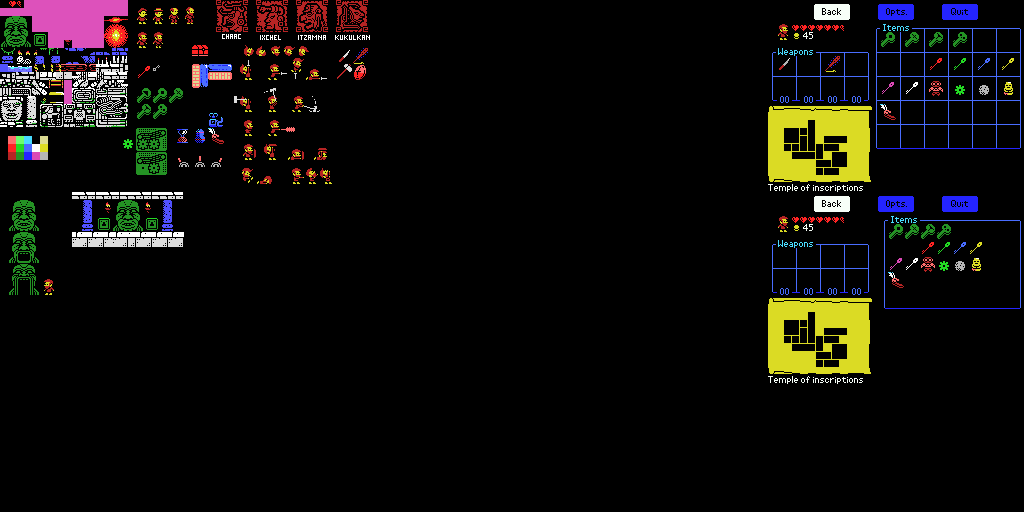
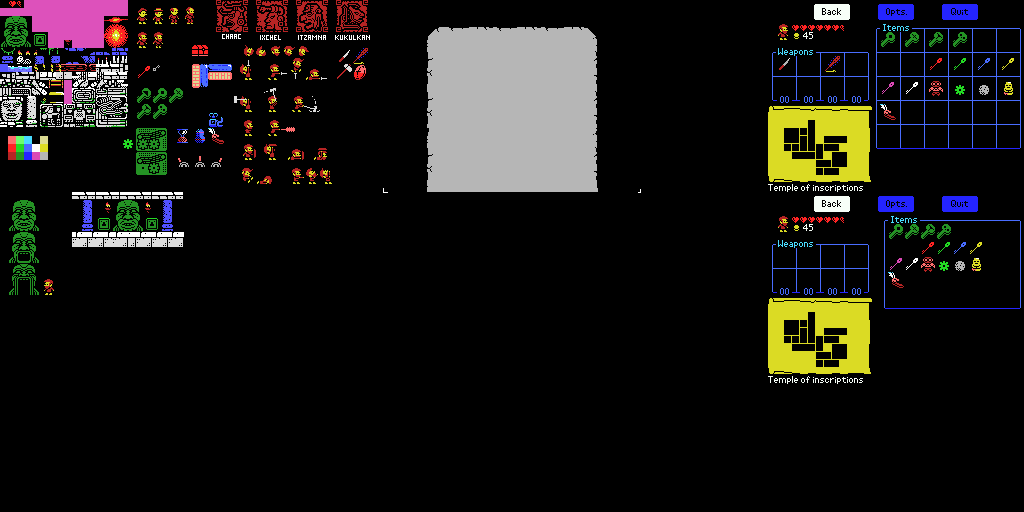
combination clue tablets added and rendered

Changed region(s): [[0.4062, 0.0312, 0.5938, 0.375]]

diff --git a/java/src/test/HardcodedWorldForAssembler.java b/java/src/test/HardcodedWorldForAssembler.java
@@ -26,6 +26,7 @@ public class HardcodedWorldForAssembler {
     public static final int MAX_N_TAGS = 32;
     public static final int MAX_CONNECTIONS = 12;
     public static final int MAX_CHESTS = 10;
+    public static final int MAX_TABLETS = 16;
     
     public static void main(String args[]) throws Exception
     {
@@ -87,6 +88,36 @@ public class HardcodedWorldForAssembler {
             System.out.println("  ds " + (MAX_CHESTS - n_chests) * 2 + ", #ff");
         }
         System.out.println("  db #ff  ; sentinel");
+        
+        // Tablet content:
+        int n_tablets = 0;
+        System.out.println("hardcoded_world_data__tablet_content:");
+        System.out.println("  ; each entry is 3 bytes: tablet_id, content_ptr");
+        for(String tablet:w.tabletContent.keySet()) {
+            System.out.println("  db " + AssemblerTags.tagToAssembler(tablet));
+            System.out.println("  dw " + w.tabletContent.get(tablet));
+            n_tablets++;
+        }
+        if (n_tablets > MAX_TABLETS) {
+            throw new Exception("More tablets than supported: " + n_tablets);
+        }
+        if (n_tablets < MAX_TABLETS) {
+            System.out.println("  ds " + (MAX_TABLETS - n_tablets) * 3 + ", #ff");
+        }
+        System.out.println("  db #ff  ; sentinel");
+        
+        System.out.println("hardcoded_world_data__combination_solutions:");
+        for(int i = 0;i<4;i++) {
+            System.out.println("  db " + w.combinationSolutions[i][0] + ", " +
+                                         w.combinationSolutions[i][1] + ", " +
+                                         w.combinationSolutions[i][2] + ", " +
+                                         w.combinationSolutions[i][3] + ", " +
+                                         w.combinationSolutions[i][4] + ", " +
+                                         w.combinationSolutions[i][5] + ", " +
+                                         w.combinationSolutions[i][6] + ", " +
+                                         w.combinationSolutions[i][7]);
+        }
+        
     }
     
     
@@ -138,7 +169,7 @@ public class HardcodedWorldForAssembler {
         }
         
         System.out.println("hardcoded_area_data_"+areaIndex+"__tags:");
-        List<Pair<Integer, String>> tagList = pcg2.getSortedTagList(a);
+        List<Pair<Integer, String>> tagList = a.getSortedTagList();
         int n_tags = tagList.size();
         for(Pair<Integer, String> tag_position:tagList) {
             int offset = tag_position.left;

diff --git a/java/src/pcg/PCGWorld.java b/java/src/pcg/PCGWorld.java
@@ -238,6 +238,42 @@ public class PCGWorld {
                 a.removeTag("none");
             }
             
+            // generate tablet contents:
+//            int n_combination_tablets = 0;
+//            int n_trial_tablets = 0;
+//            int n_riddle_tablets = 0;
+//            int n_trivia_tablets = 0;
+            for(Area a:w.areas) {
+                List<Pair<Integer, String>> tagList = a.getSortedTagList();
+                for(Pair<Integer, String> tag_position:tagList) {
+                    String tag = tag_position.right;
+//                    System.out.println(tag);
+                    if (tag.toLowerCase().contains("-clue") &&
+                        tag.toLowerCase().contains("combination")) {
+                        // combination clue:
+                        int type = r.nextInt(4);
+                        w.tabletContent.put(tag, "combination_tablet_type_"+type+"_fn");
+                    } else if (tag.toLowerCase().contains("-clue") &&
+                        tag.toLowerCase().contains("trial")) {
+                        // combination clue:
+                        // ...
+                    } else if (tag.toLowerCase().contains("riddle-clue")) {
+                        // maya riddle clue:
+                        // ...
+                    } else if (tag.toLowerCase().contains("story-trivia")) {
+                        // story trivia:
+                        // ...
+                    }
+                }
+            }
+            
+            for(int j = 0;j<4;j++) {
+                for(int k = 0;k<8;k++) {
+                    w.combinationSolutions[j][k] = r.nextInt(8)%3;
+                }
+            }
+            
+            
             return w;
         }        
         return null;

diff --git a/java/src/pcg/PCGArea.java b/java/src/pcg/PCGArea.java
@@ -716,7 +716,7 @@ public class PCGArea {
         }
 
         // Get all tags:
-        List<Pair<Integer, String>> tagList = getSortedTagList(a);
+        List<Pair<Integer, String>> tagList = a.getSortedTagList();
      
 //        System.out.println("---- placing tags for area " + a.ID + " ----");
 //        System.out.println("seed before: " + Z80Assembler.toHex16bit(r.rng_seed1, true) + ", " + Z80Assembler.toHex16bit(r.rng_seed2, true));
@@ -1310,36 +1310,6 @@ public class PCGArea {
         return ra;
     }
     
-
-    public List<Pair<Integer, String>> getSortedTagList(Area a)
-    {
-        List<Pair<Integer, String>> tagList = new ArrayList<>();        
-        for(int i = 0;i<a.height;i++) {
-            for(int j = 0;j<a.width;j++) {
-                if (a.tags[j][i] != null) {
-                    for(String tag:a.tags[j][i]) {
-                        tagList.add(new Pair<>(j+i*a.width, tag));
-                    }
-                }
-            }
-        }
-        Collections.sort(tagList, new Comparator<Pair<Integer, String>>(){
-            @Override
-            public int compare(Pair<Integer, String> o1, Pair<Integer, String> o2) {
-                try {
-                    int tag1 = AssemblerTags.assemblerID(o1.right);
-                    int tag2 = AssemblerTags.assemblerID(o2.right);
-                    return Integer.compare(tag1, tag2);
-                } catch(Exception e) {
-                    e.printStackTrace();
-                    System.exit(0);
-                    return 0;
-                }
-            }
-        });
-        return tagList;
-    }
-
     
     public RoomChunk[][] getBGChunksLikeInMSX(RenderedArea ra)
     {

diff --git a/java/src/pcg/Area.java b/java/src/pcg/Area.java
@@ -6,6 +6,8 @@ package pcg;
 
 import java.awt.Color;
 import java.util.ArrayList;
+import java.util.Collections;
+import java.util.Comparator;
 import java.util.List;
 import util.Pair;
 
@@ -90,4 +92,33 @@ public class Area {
         }
     }
     
+    
+    public List<Pair<Integer, String>> getSortedTagList()
+    {
+        List<Pair<Integer, String>> tagList = new ArrayList<>();        
+        for(int i = 0;i<height;i++) {
+            for(int j = 0;j<width;j++) {
+                if (tags[j][i] != null) {
+                    for(String tag:tags[j][i]) {
+                        tagList.add(new Pair<>(j+i*width, tag));
+                    }
+                }
+            }
+        }
+        Collections.sort(tagList, new Comparator<Pair<Integer, String>>(){
+            @Override
+            public int compare(Pair<Integer, String> o1, Pair<Integer, String> o2) {
+                try {
+                    int tag1 = AssemblerTags.assemblerID(o1.right);
+                    int tag2 = AssemblerTags.assemblerID(o2.right);
+                    return Integer.compare(tag1, tag2);
+                } catch(Exception e) {
+                    e.printStackTrace();
+                    System.exit(0);
+                    return 0;
+                }
+            }
+        });
+        return tagList;
+    }    
 }

diff --git a/java/src/xspelunker2/Text.java b/java/src/xspelunker2/Text.java
@@ -235,6 +235,12 @@ public class Text {
         addLineSafe(lines_with_constant, "That does not seem to be the correct key for this lock!", "WRONG_KEY", 112);
         addLineSafe(lines_with_constant, "That does not seem to be the correct item to use here!", "WRONG_ITEM", 112);
         
+        // Combination clue verse:
+        addLineSafe(lines_with_constant, "Dance of traversal:", "COMBINATION_CLUE1", 12);
+        addLineSafe(lines_with_constant, "Face left", "COMBINATION_CLUE2", 8);
+        addLineSafe(lines_with_constant, "Face forward", "COMBINATION_CLUE3", 8);
+        addLineSafe(lines_with_constant, "Face right", "COMBINATION_CLUE4", 8);
+        
         List<Integer> numbers = font.convertStringToAssembler("0123456789 ");
         System.out.println("Numbers: " + numbers);
         List<Integer> letters = font.convertStringToAssembler("ABCDEFGHIJKLMNOPQRSTUVWXYZ ");

diff --git a/java/src/pcg/World.java b/java/src/pcg/World.java
@@ -23,8 +23,10 @@ public class World {
     public List<InterAreaConnection> interAreaconnections = new ArrayList<>();
     public HashMap<String, Integer> lockDirections = new HashMap<>();
     public HashMap<String, String> chestContent = new HashMap<>();
+    public HashMap<String, String> tabletContent = new HashMap<>();
     public List<String> withinChestTag = new ArrayList<>();
     public List<AreaDivision> spanningTree;
+    public int[][] combinationSolutions = new int[4][8];
     
     // Used for verifying if game is solveable:
     public HashMap<String, List<String>> lockKeys = new HashMap<>();  

diff --git a/java/src/xspelunker2/GenerateTiles.java b/java/src/xspelunker2/GenerateTiles.java
@@ -142,6 +142,8 @@ public class GenerateTiles {
         // button (58, 59)
         extratTilesOneObject(sourceImage, 192, 16, 16, 16, data);  // up
         extratTilesOneObject(sourceImage, 192, 32, 16, 16, data);  // pressed
+        // tablet (60)
+        extratTilesOneObject(sourceImage, 96, 48, 16, 16, data);
 
         Z80Assembler.dataToBinary(data, outputPath + ".bin");
         ZX0Wrapper.main(outputPath+".bin", outputPath+".zx0", true, false);

diff --git a/java/src/xspelunker2/Inventory.java b/java/src/xspelunker2/Inventory.java
@@ -89,9 +89,9 @@ public class Inventory {
         
         Z80Assembler.dataToBinary(data, outputPath + ".bin");
         ZX0Wrapper.main(outputPath+".bin", outputPath+".zx0", true, false);
-        
     }
-    
+
+
     public static void extractTiles(String pngPath, int firstRow, int lastRow, String outputPath) throws Exception
     {
         List<Integer> bitmap_data = new ArrayList<>();
